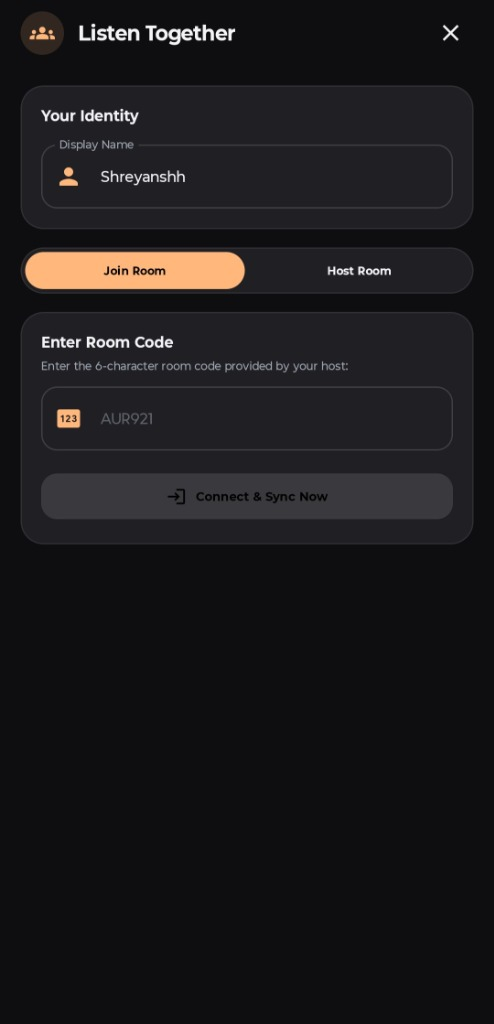
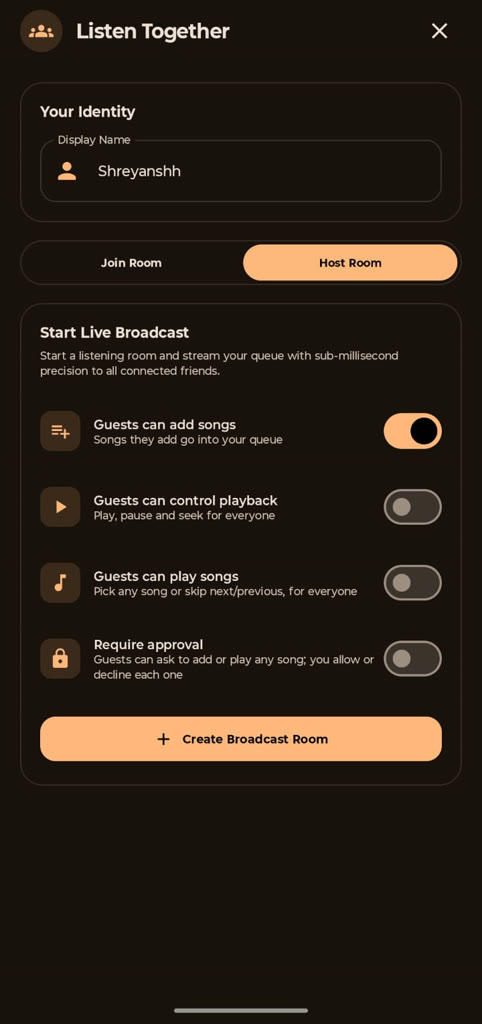
docs(readme): refresh screenshots for 1.1.0
Replace Synced Lyrics and Listen Together with current screens; add a row
with Listening Stats and the new player (player, lyrics, queue).

diff --git a/README.md b/README.md
@@ -83,6 +83,24 @@ There's one APK and it runs on every Android phone, whatever processor it has (`
         <sub><b>Discord Presence</b></sub>
       </td>
     </tr>
+    <tr>
+      <td align="center" width="25%">
+        <img src="docs/screenshots/stats.jpg" alt="Listening Stats" width="100%" /><br />
+        <sub><b>Listening Stats</b></sub>
+      </td>
+      <td align="center" width="25%">
+        <img src="docs/screenshots/new_player.jpg" alt="New Player" width="100%" /><br />
+        <sub><b>New Player</b></sub>
+      </td>
+      <td align="center" width="25%">
+        <img src="docs/screenshots/new_player_lyrics.jpg" alt="Player with Lyrics" width="100%" /><br />
+        <sub><b>Player · Lyrics</b></sub>
+      </td>
+      <td align="center" width="25%">
+        <img src="docs/screenshots/new_player_queue.jpg" alt="Player with Queue" width="100%" /><br />
+        <sub><b>Player · Queue</b></sub>
+      </td>
+    </tr>
   </table>
 </div>
 
